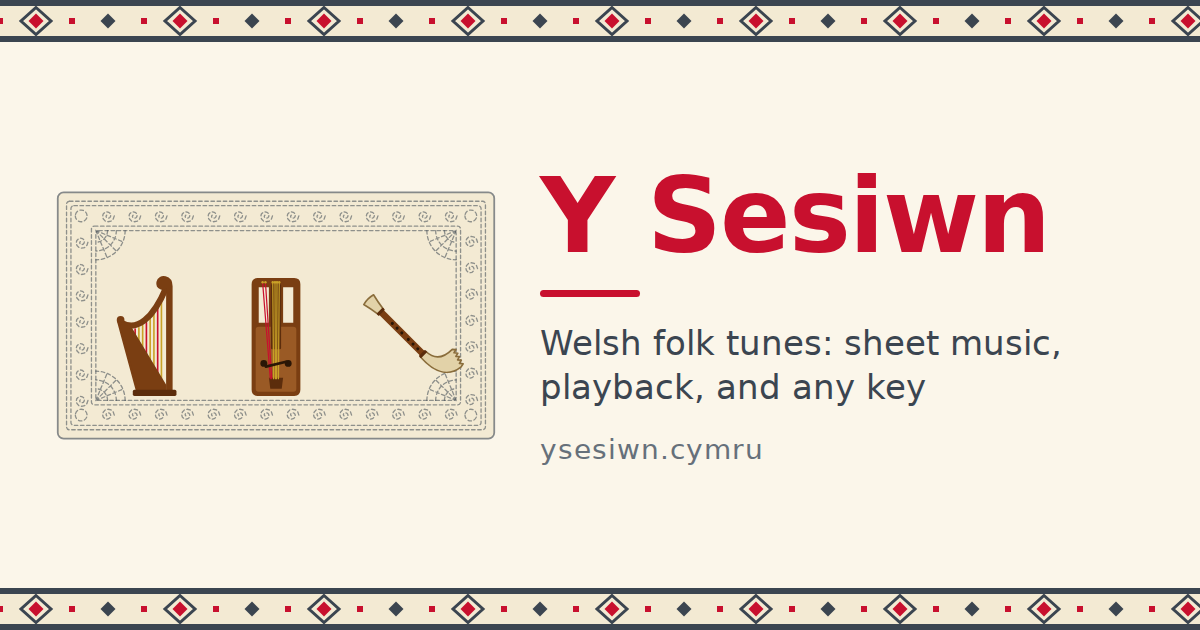
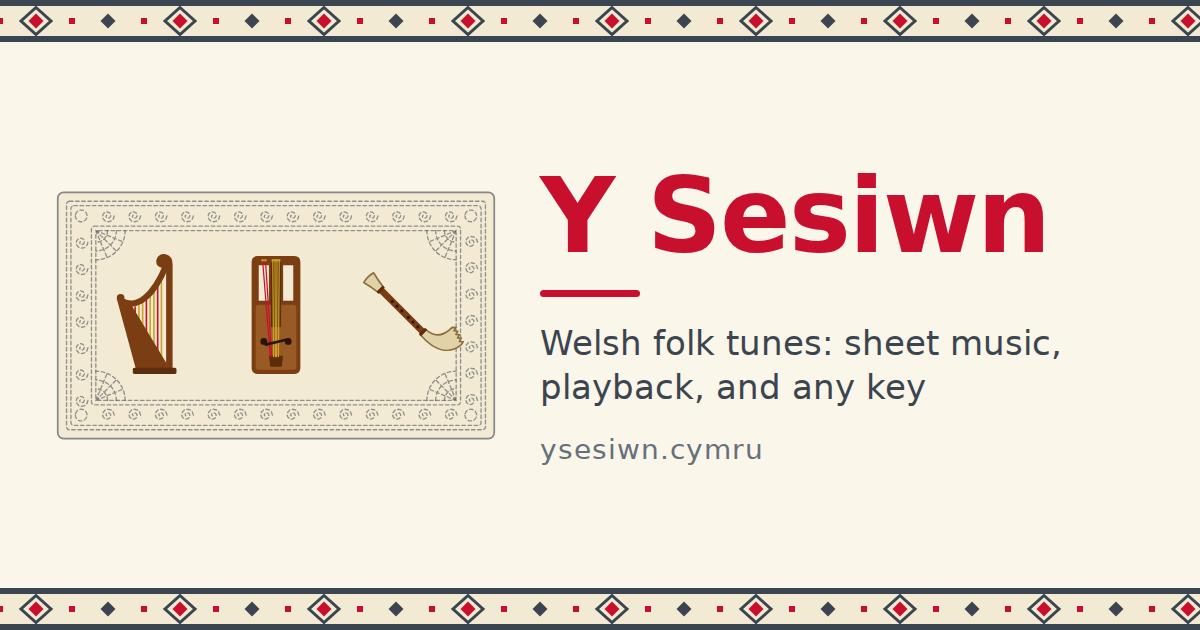
fix link preview

Changed region(s): [[0.185, 0.3921, 0.2775, 0.6333], [0.0925, 0.3921, 0.1542, 0.6333], [0.3083, 0.4222, 0.4008, 0.6032]]

diff --git a/site/index.html b/site/index.html
@@ -22,7 +22,7 @@
   <meta property="og:title" content="Y Sesiwn: Welsh folk tunes">
   <meta property="og:description" content="Welsh folk tunes to learn and share, free and open source: sheet music, playback and any key.">
   <meta property="og:url" content="https://ysesiwn.cymru/">
-  <meta property="og:image" content="https://ysesiwn.cymru/og-image.png">
+  <meta property="og:image" content="https://ysesiwn.cymru/og-image.png?v=2">
   <meta property="og:image:width" content="1200">
   <meta property="og:image:height" content="630">
   <meta property="og:image:alt" content="Y Sesiwn: a Welsh triple harp, crwth and pibgorn on a scrap of Welsh quilt, and the words 'Welsh folk tunes: sheet music, playback, and any key', between two bands of Welsh tapestry pattern">

diff --git a/design/og-card.html b/design/og-card.html
@@ -10,8 +10,8 @@
   .top { top: 0; } .bottom { bottom: 0; }
   /* the harp, crwth and pibgorn on a scrap of Welsh quilt, as on the home page */
   .instruments {
-    flex: none; display: flex; align-items: flex-end; justify-content: center;
-    width: 440px; height: 249px; box-sizing: border-box; padding: 0 38px 38px;
+    flex: none; display: flex; align-items: center; justify-content: center;
+    width: 440px; height: 249px; box-sizing: border-box; padding: 0 38px;
     background: url(../static/quilt.svg) center / 100% 100% no-repeat;
   }
   .instruments img { width: 130px; height: 130px; }
